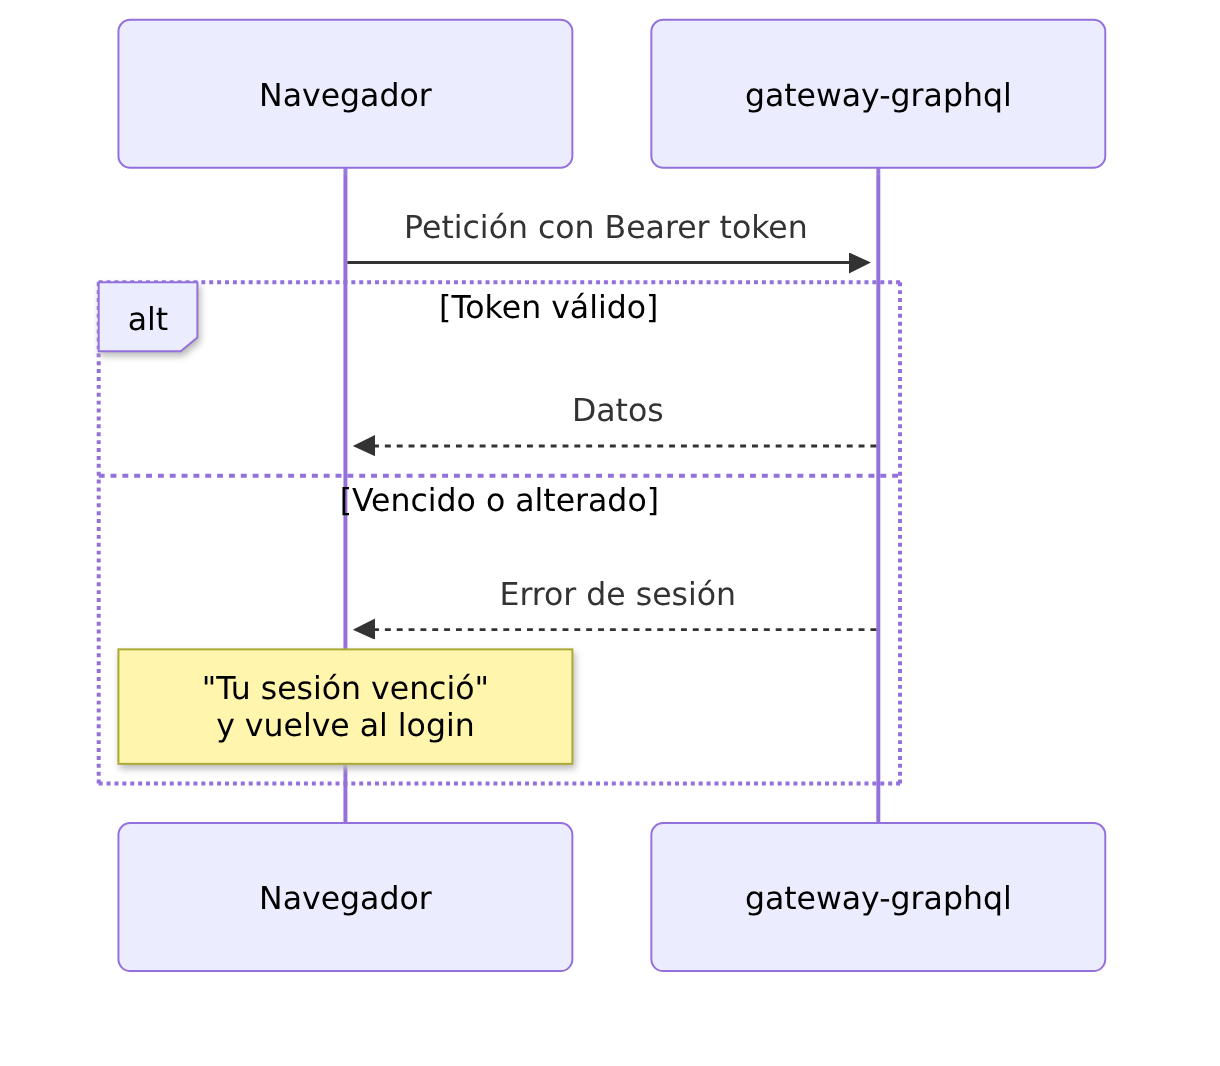
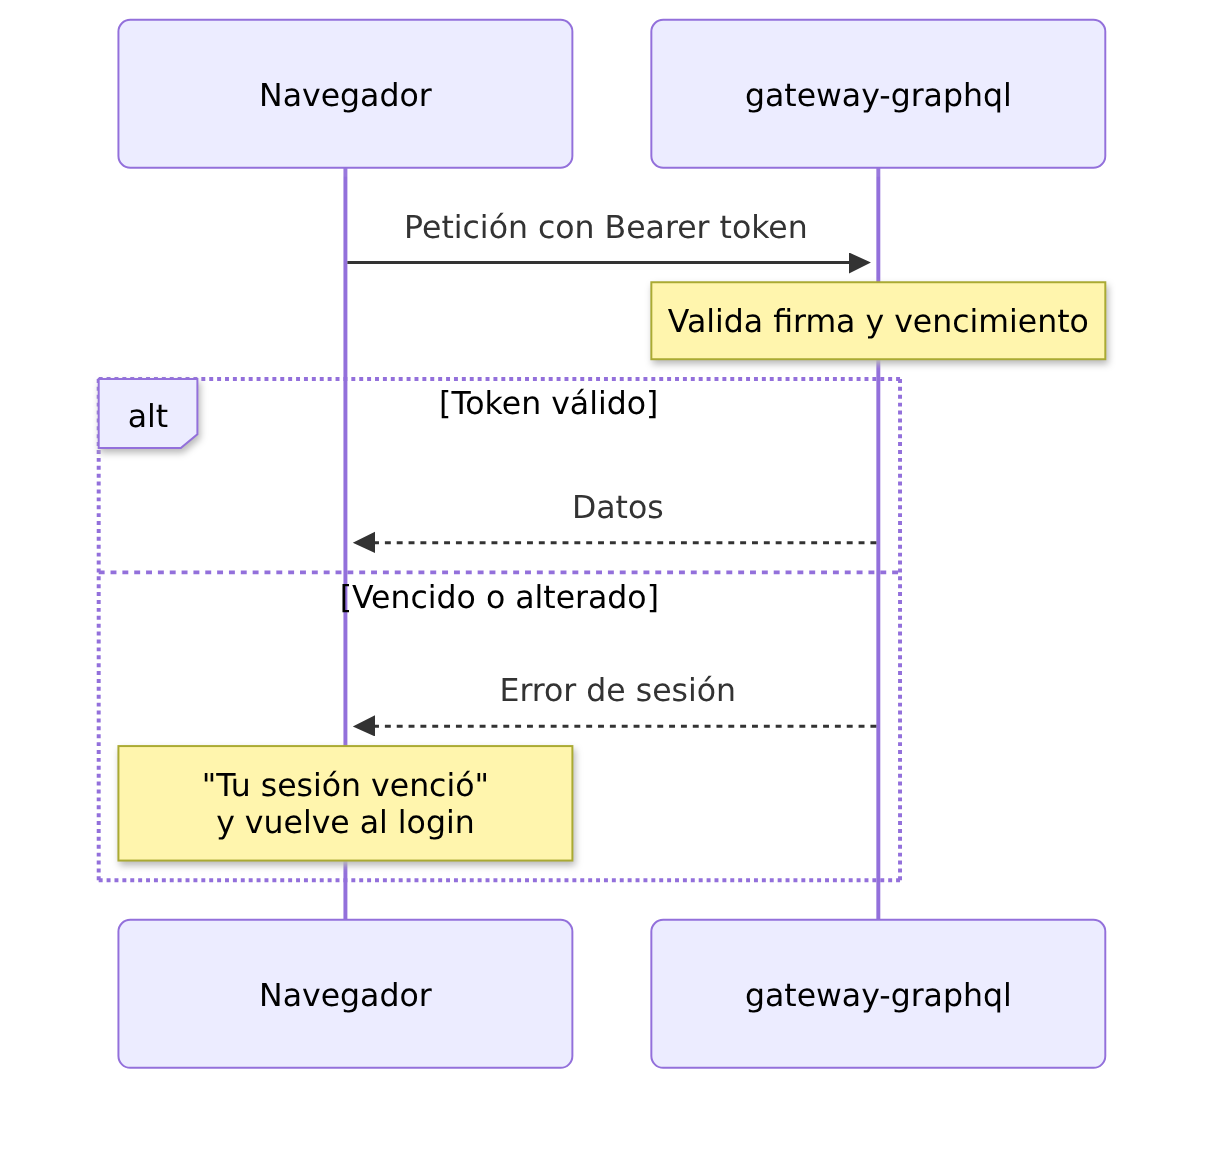
Ajusta diagramas 04a (nombres y nota de alcance) y 03b (nota de validacion)

diff --git a/docs/diagramas/04-recordatorio.md b/docs/diagramas/04-recordatorio.md
@@ -4,8 +4,8 @@
 
 ```mermaid
 sequenceDiagram
-  participant J as GeneradorRecordatorios
-  participant C as Servicios consultados
+  participant J as GeneradorRecordatorios<br/>(ms-relacion-cliente)
+  participant C as ms-establecimientos<br/>y ms-agenda
   participant S as RelacionService
   Note over J: Cada 60 segundos
   J->>C: Pide ventanas y citas próximas
@@ -13,6 +13,7 @@ sequenceDiagram
   Note over J: Dentro de la ventana y sin confirmar
   J->>S: Registrar recordatorio
   Note over S: Se guarda una sola vez por cita
+  Note over S: Solo registra el recordatorio#59;<br/>no envía WhatsApp ni correo
 ```
 
 ![Recordatorio automático](img/04a-recordatorio.png)
@@ -22,9 +23,10 @@ Regla: dentro de la ventana y sin confirmar, registra el recordatorio, una sola 
 | Mensaje del diagrama | Detalle técnico | Fuente |
 |---|---|---|
 | Cada 60 segundos | `@Scheduled` fixedDelay 60000 ms, espera inicial 30000 ms; activo por defecto (`RECORDATORIOS_ACTIVO:true`) | `GeneradorRecordatorios.java`, `application.properties` de ms-relacion-cliente |
-| Pide ventanas y citas próximas | «Servicios consultados» agrupa dos: `GET /establecimientos` (ventana de confirmación de cada uno, en ms-establecimientos) y `GET /citas/proximas?desde&hasta` (ms-agenda, paginada) | `EstablecimientosClient.java`, `AgendaClient.java`, `CitaController.java` |
+| Pide ventanas y citas próximas | «ms-establecimientos y ms-agenda» agrupa los dos servicios consultados: `GET /establecimientos` (ventana de confirmación de cada uno, en ms-establecimientos) y `GET /citas/proximas?desde&hasta` (ms-agenda, paginada) | `EstablecimientosClient.java`, `AgendaClient.java`, `CitaController.java` |
 | Dentro de la ventana y sin confirmar | `ahora < inicio <= ahora + ventana` y `confirmadaEn` vacío; se omiten las confirmadas, las de establecimientos desconocidos y las fuera de ventana | `GeneradorRecordatorios.revisar()` |
 | Registrar recordatorio | `RelacionService.recordatorio()` llama a `registrar()`, tipo `recordatorio-cita` | `RelacionService.java` |
+| Solo registra el recordatorio; no envía WhatsApp ni correo | No hay envío real: la notificación solo se guarda; el comentario de `Notificacion.java` indica que el canal real (WhatsApp Business API) exige una cuenta aprobada | `Notificacion.java` |
 | Se guarda una sola vez por cita | `existsByCitaIdAndTipo` y restricción `UNIQUE (cita_id, tipo)`; `DataIntegrityViolationException` se trata como ya registrada | `RelacionService.java`, `Notificacion.java` |
 
 ## 4b. Confirmación de la clienta

diff --git a/docs/diagramas/03-login.md b/docs/diagramas/03-login.md
@@ -32,6 +32,7 @@ sequenceDiagram
   participant N as Navegador
   participant G as gateway-graphql
   N->>G: Petición con Bearer token
+  Note over G: Valida firma y vencimiento
   alt Token válido
     G-->>N: Datos
   else Vencido o alterado
@@ -45,6 +46,7 @@ sequenceDiagram
 | Mensaje del diagrama | Detalle técnico | Fuente |
 |---|---|---|
 | Petición con Bearer token | Cabecera `Authorization: Bearer <token>` | `InterceptorSesion.java` |
+| Valida firma y vencimiento | `EmisorJwt.validar` verifica la firma HS256 y la expiración (`verifyWith`, reloj) | `EmisorJwt.java` |
 | Token válido: datos | El interceptor deja la sesión en el contexto; cada operación decide con `Exigir` si la requiere | `InterceptorSesion.java`, `Exigir.java` |
 | Vencido o alterado: error de sesión | El interceptor registra `vencida` o `invalida`; la operación protegida falla con `NoAutenticado` | `InterceptorSesion.java`, `EmisorJwt.validar` |
 | «Tu sesión venció» y vuelta al login | El frontend cierra la sesión y muestra el aviso «Tu sesión venció. Inicia sesión de nuevo.» | `frontend/src/api/graphql.js`, `App.jsx` |
